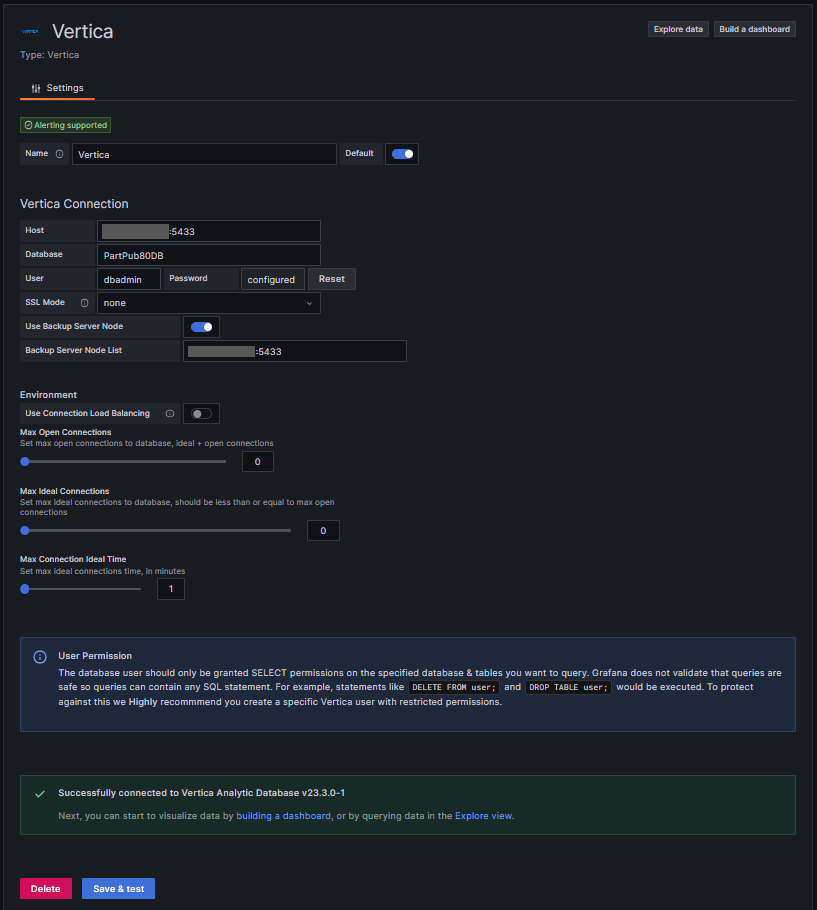
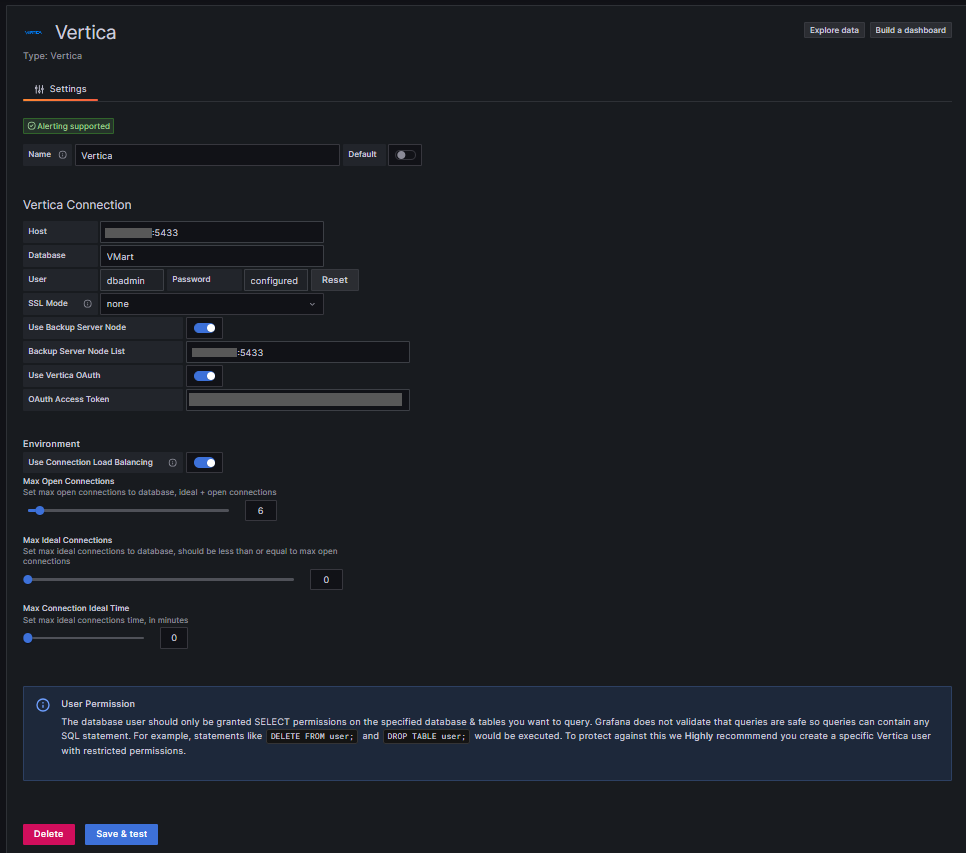
Oauth support (#49)
* version updates

* datasource-config img

Changed region(s): [[0.0, 0.0305, 1.0, 0.9144], [0.0306, 0.9449, 0.2142, 1.0], [0.7956, 0.0305, 0.9792, 0.061]]

diff --git a/README.md b/README.md
@@ -36,18 +36,20 @@ After you add the Vertica data source, you need to configure it by entering the 
 | `Password`  | Database user password. |
 | `SSL Mode`  | Determines whether or with what priority a secure SSL TCP/IP connection will be negotiated with the server. When SSL Mode is disabled, SSL Method and Auth Details are not visible. |
 | `Use Backup Server Node`  | To enable backup hosts on server side. |
-| ` Backup Server Node List`  | Comma delimited list of backup host:port for the client to try to connect if the primary host is unreachable. |
+| `Backup Server Node List`  | Comma delimited list of backup host:port for the client to try to connect if the primary host is unreachable. |
+| `Use Vertica OAuth` | To enable OAuth connection to Vertica database. |
+| `OAuth Access Token` | Use OAuth Access Token for authentication to Vertica database. |
 | `Use Connection Load Balancing`  | To enable connection load balancing on the client-side.|
 | `Max Open Connections` |  Maximum number of connections a user can open concurrently on individual nodes or across the database cluster.|
 | `Max Ideal Connections` | Maximum number of idle connections. This number should be less than or equal to Max Open Connections. |
 | `Max Connection Ideal Time` | Idle time after which the session times out. |
 
-**Note:** To enable load balancing, the server side needs to be configured. For more information, see [Connection Load Balancing](https://www.vertica.com/docs/10.1.x/HTML/Content/Authoring/AdministratorsGuide/ManagingClientConnections/LoadBalancing/ConnectionLoadBalancing.htm?tocpath=Administrator%27s%20Guide%7CManaging%20Client%20Connections%7CConnection%20Load%20Balancing%7C_____0) in the Vertica documentation.
+**Note:** 
+1. The current OAuth setup only uses access token for authentication as per vertica-sql-go driver. Consider altering your token expiration time to extend token validity.
+2. To enable load balancing, the server side needs to be configured. For more information, see [Connection Load Balancing](https://www.vertica.com/docs/10.1.x/HTML/Content/Authoring/AdministratorsGuide/ManagingClientConnections/LoadBalancing/ConnectionLoadBalancing.htm?tocpath=Administrator%27s%20Guide%7CManaging%20Client%20Connections%7CConnection%20Load%20Balancing%7C_____0) in the Vertica documentation.
 For more information on managing client connections, see [Managing Client Connections](https://www.vertica.com/docs/11.0.x/HTML/Content/Authoring/AdministratorsGuide/ManagingClientConnections/OverviewClientConnections.htm?tocpath=Administrator%27s%20Guide%7CManaging%20Client%20Connections%7C_____0).
 
 ![Data Source Config](https://raw.githubusercontent.com/vertica/vertica-grafana-datasource/main/src/img/datasource-config.png)
-
-
 
 ## User Permission 
 When you add the data source, the database user you specify must only be granted SELECT permissions on the specified database and tables you want to query. Grafana does not validate that the query is safe. The query could include any SQL statement. For example, statements like `DELETE FROM user;`  and  `DROP TABLE user;`  will be executed. We **highly** recommend you create a specific Vertica user with restricted permissions.
@@ -158,19 +160,19 @@ For the plugin to load, add the following configuration parameter to the  `/etc/
 ![Allow Unsigned Plugin](https://raw.githubusercontent.com/vertica/vertica-grafana-datasource/main/src/img/allow-unsigned-plugin.png)
 
 ### Prerequisites 
-* [Grafana](https://grafana.com/docs/grafana/latest/installation/) (version 7.0.0 or higher)
+* [Grafana](https://grafana.com/docs/grafana/latest/installation/) (version 10.x)
 * [Vertica](https://www.vertica.com/download/vertica/) 
-* [NodeJS](https://nodejs.org/en/download/package-manager/) (version 14 or higher) (Package Manager: [yarn](https://classic.yarnpkg.com/en/docs/install/#windows-stable)) 
+* [NodeJS](https://nodejs.org/en/download/package-manager/) (version 18 or higher) (Package Manager: [yarn](https://classic.yarnpkg.com/en/docs/install/#windows-stable)) 
 * [Go](https://golang.org/doc/install) 
 * [Mage](https://magefile.org/)
 
 **Note:** This plugin is tested in **Linux(Ubuntu)** with the following  versions:
 
-* Grafana - v9.3.6
-* NodeJS - v16.10.0
+* Grafana - v10.1.2
+* NodeJS - v18.18.0
 * Yarn - v1.22.19
-* Npm - v7.24.0
-* Go - v1.20.1
+* Npm - v9.8.1
+* Go - v1.21.9
  
 ### Installing Vertica Grafana Data Source Plugin 
 **Note:** If you have the older version of the Vertica Grafana plugin, remove it using grafana-cli:
